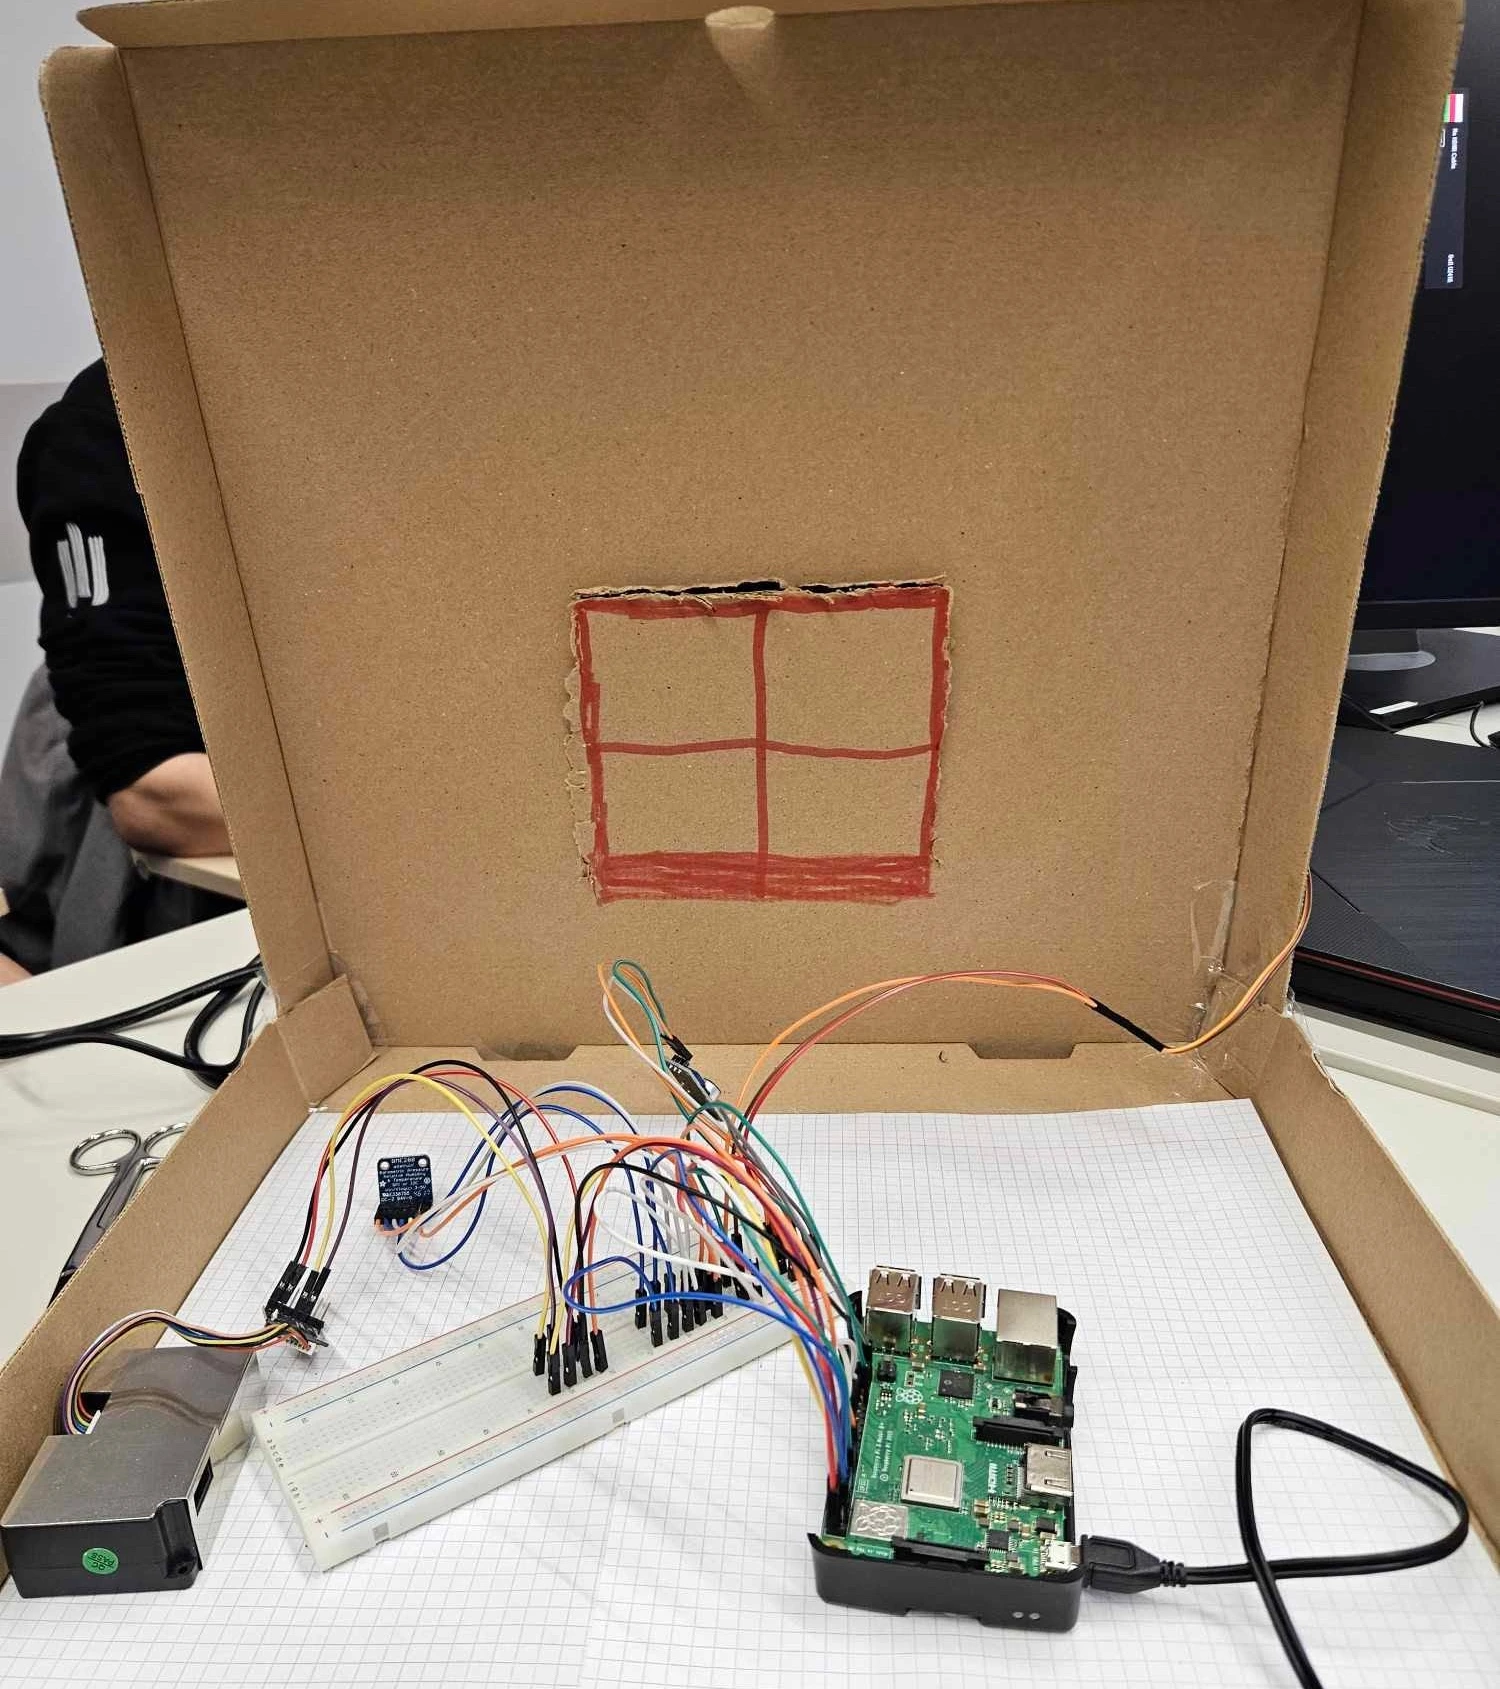
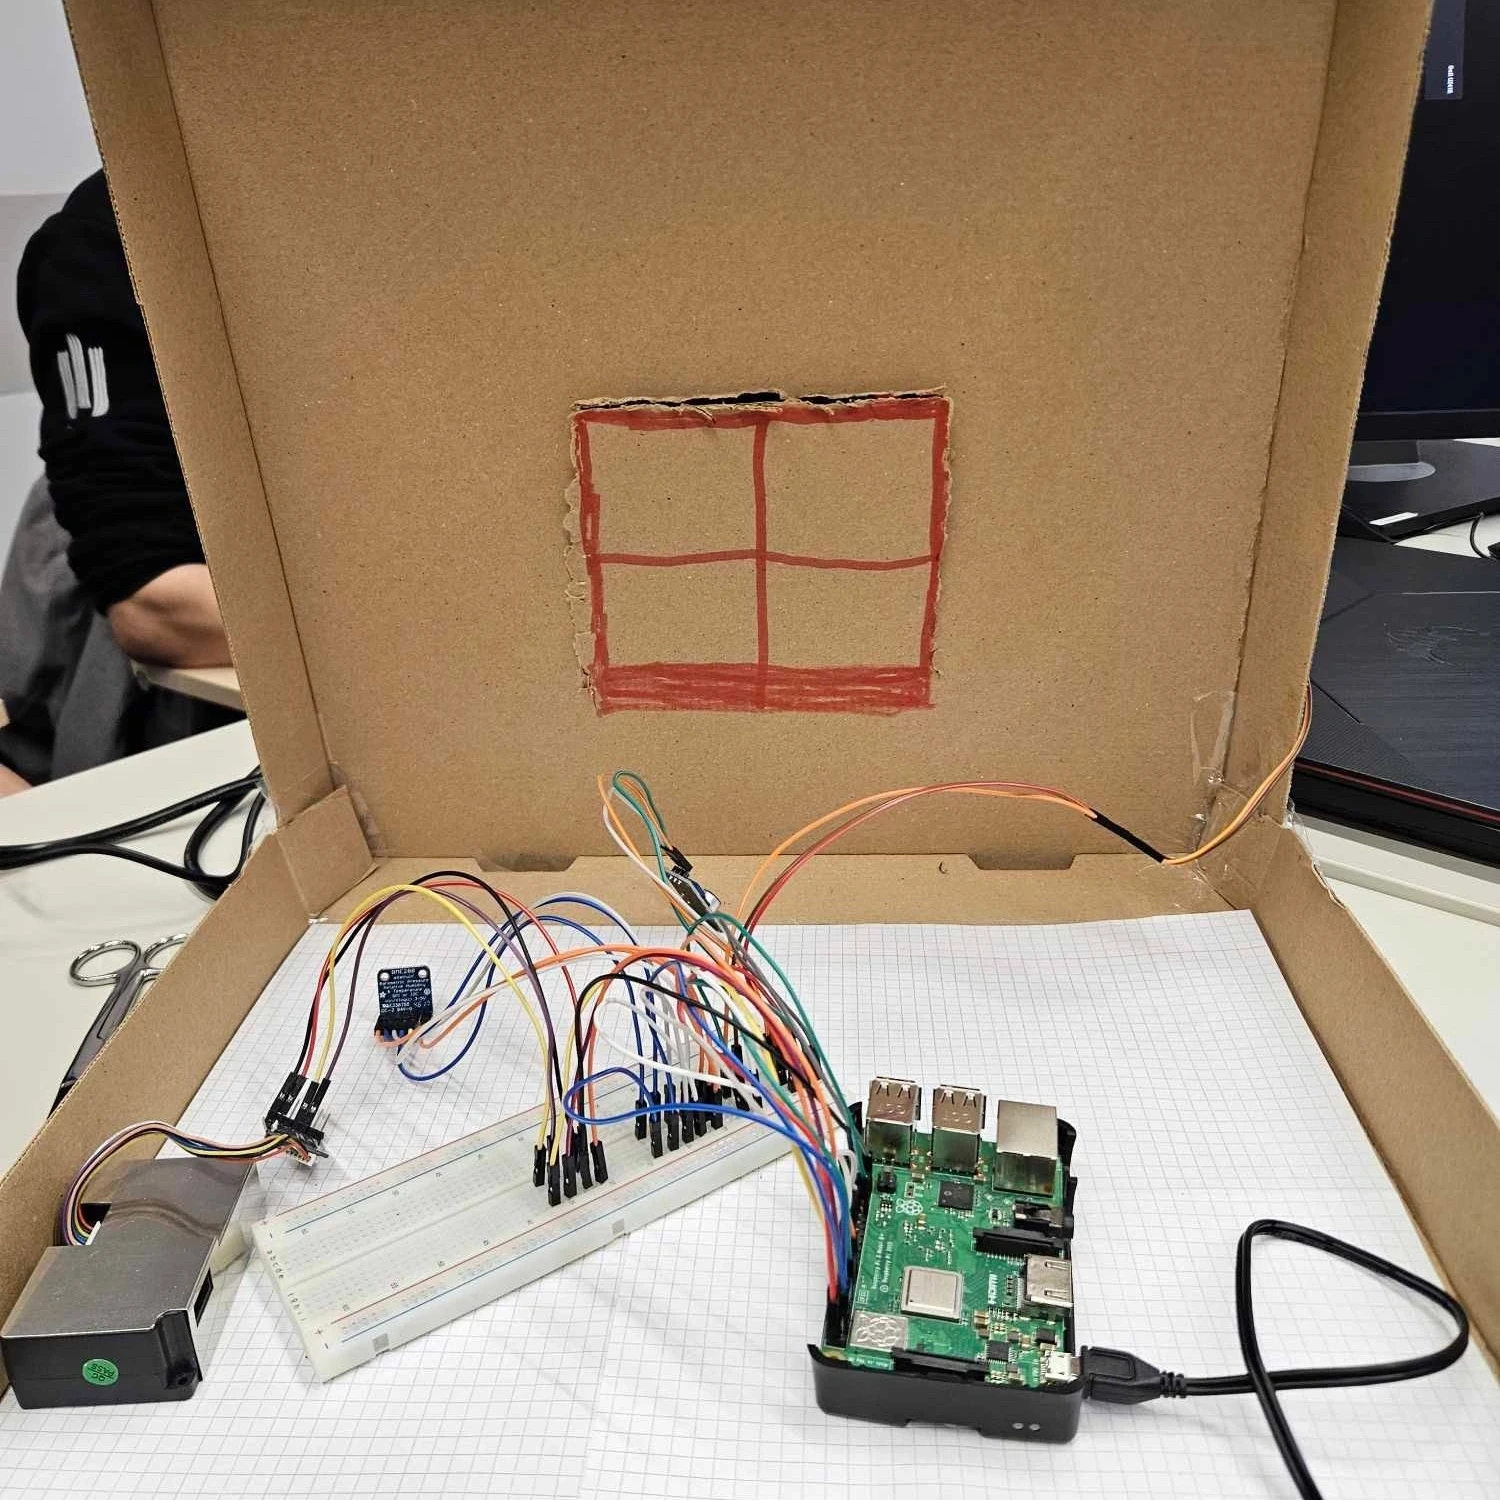
even more projects and updates

diff --git a/src/portfolio.html b/src/portfolio.html
@@ -62,7 +62,7 @@
             </div>
             <script src="tags.js"></script>
             <div class="project-grid" id="project-grid">
-              There are no projects to display at the moment.
+              There are no projects to display with the selected tags.
             </div>
           </article>
         </div>

diff --git a/src/app.css b/src/app.css
@@ -673,7 +673,8 @@ h2 {
 }
 #tag-dropdown-toggle {
   min-width: 180px;
-  padding: 0.3rem 1rem;
+  padding: 0.5rem 1rem;
+  margin-bottom: 0.5rem;
   border-radius: 0.5rem;
   border: 1px solid var(--article-border-color);
   background: var(--main-background-color);
